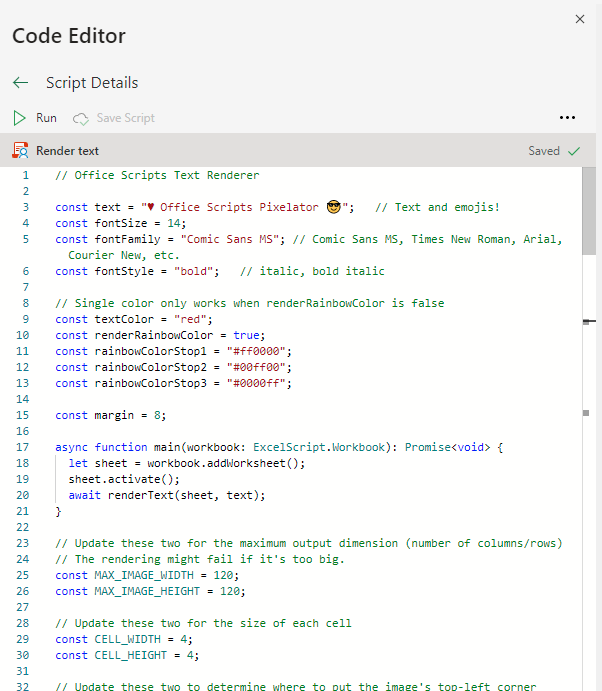
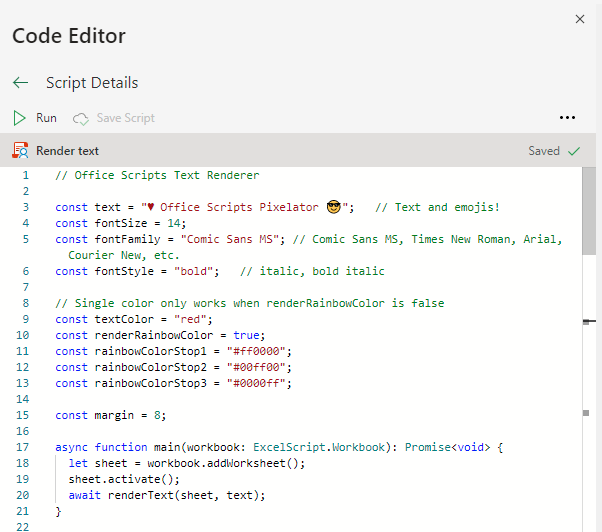
Minor changes

diff --git a/src/renderText.ts b/src/renderText.ts
@@ -20,11 +20,6 @@ async function main(workbook: ExcelScript.Workbook): Promise<void> {
   await renderText(sheet, text);
 }
 
-// Update these two for the maximum output dimension (number of columns/rows)
-// The rendering might fail if it's too big.
-const MAX_IMAGE_WIDTH = 120;
-const MAX_IMAGE_HEIGHT = 120;
-
 // Update these two for the size of each cell
 const CELL_WIDTH = 4;
 const CELL_HEIGHT = 4;

diff --git a/README.md b/README.md
@@ -37,7 +37,6 @@ Please refer to <https://aka.ms/office-scripts> for more details about Office Sc
     - The text you want to render
     - Font size, family, style, color (single color vs. rainbow color 🌈!)
     - The size of a "pixel" - how many cells to represent a single pixel
-    - Output dimension (`number of columns * number of rows`)
 - Hit the `▶ Run` button above the code editor.
 - The rendering might take a while so take your time.
 
